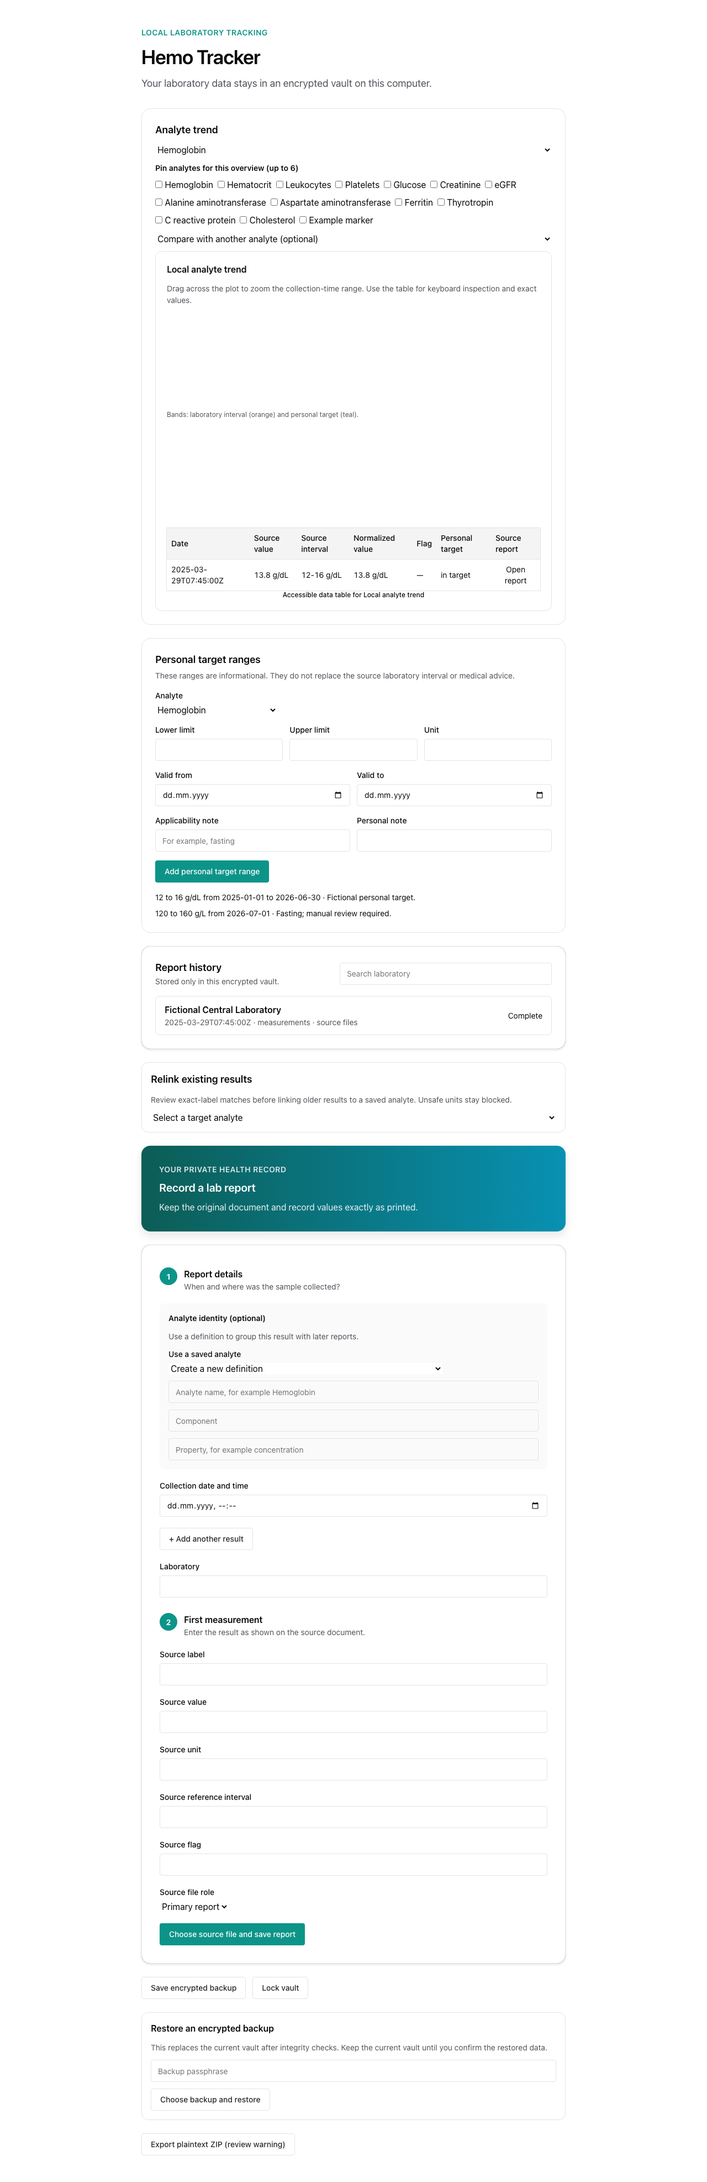
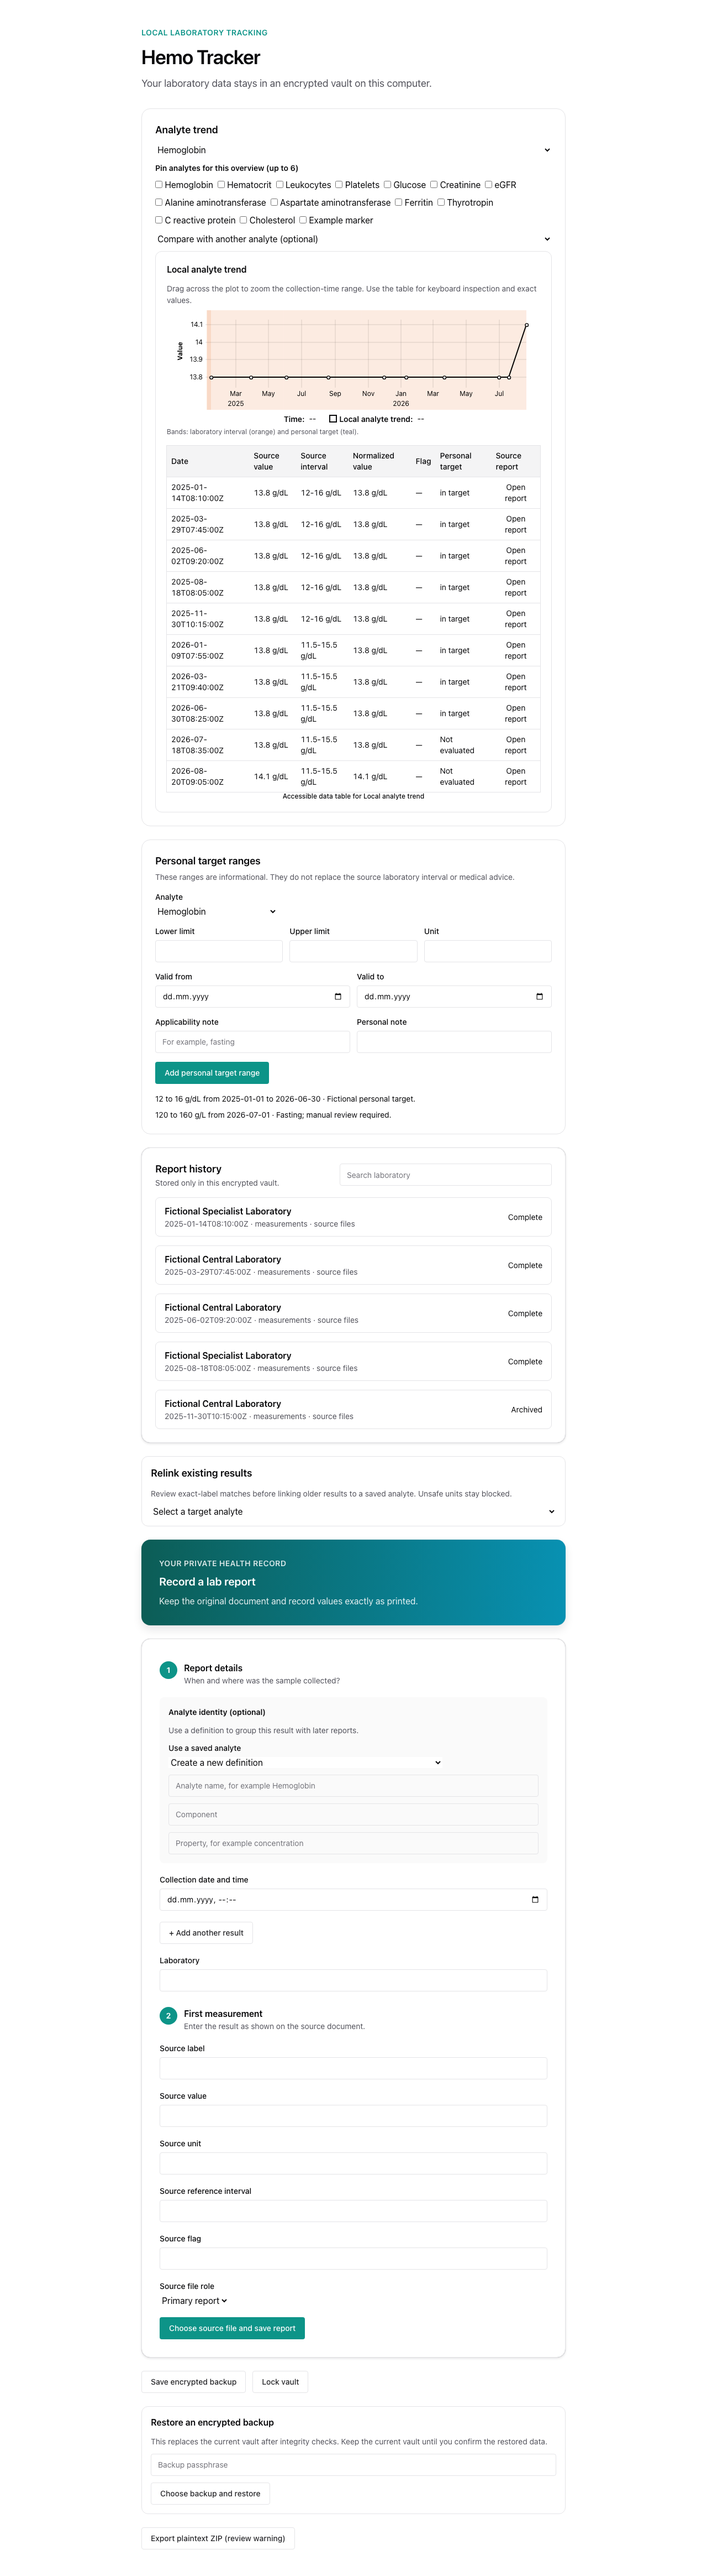
test: use complete fixture in V1 screenshot

Changed region(s): [[0.1875, 0.0, 0.8125, 0.9975]]

diff --git a/tests/e2e/v1-screenshots.spec.ts b/tests/e2e/v1-screenshots.spec.ts
@@ -32,7 +32,9 @@ test("capture unlocked overview", async ({ page }) => {
   await page.goto("/");
   await page.getByLabel("Trend analyte").selectOption("hemoglobin");
   await page.getByLabel("Target range analyte").selectOption("hemoglobin");
-  await expect(page.getByText("Fictional Central Laboratory")).toBeVisible();
+  await expect(
+    page.getByText("Fictional Central Laboratory").first(),
+  ).toBeVisible();
   await page.screenshot({
     path: path.join(screenshotDirectory, "desktop-unlocked-overview.png"),
     fullPage: true,
@@ -44,17 +46,22 @@ async function mockTauri(
   status: string,
 ) {
   await page.addInitScript(
-    ({ vaultStatus, analytes, report }) => {
+    ({ vaultStatus, analytes, reports }) => {
       const analyte = analytes.find((item) => item.id === "hemoglobin");
-      if (!analyte || !report) throw new Error("V1 fixture is incomplete");
+      if (!analyte || !reports.length)
+        throw new Error("V1 fixture is incomplete");
       Object.assign(window, {
         __TAURI_INTERNALS__: {
-          invoke: async (command: string) => {
+          invoke: async (command: string, args?: { reportId?: string }) => {
             if (command === "get_vault_state")
               return { accountExists: true, status: vaultStatus };
             if (command === "list_analyte_definitions") return analytes;
-            if (command === "list_lab_reports") return [report.id];
-            if (command === "get_lab_report") return report;
+            if (command === "list_lab_reports")
+              return reports.map((item) => item.id);
+            if (command === "get_lab_report")
+              return (
+                reports.find((item) => item.id === args?.reportId) ?? reports[0]
+              );
             throw new Error(`Unexpected screenshot command: ${command}`);
           },
         },
@@ -63,7 +70,7 @@ async function mockTauri(
     {
       vaultStatus: status,
       analytes: fixtureAnalytes.analytes,
-      report: fixtureReports.reports[1],
+      reports: fixtureReports.reports,
     },
   );
 }
